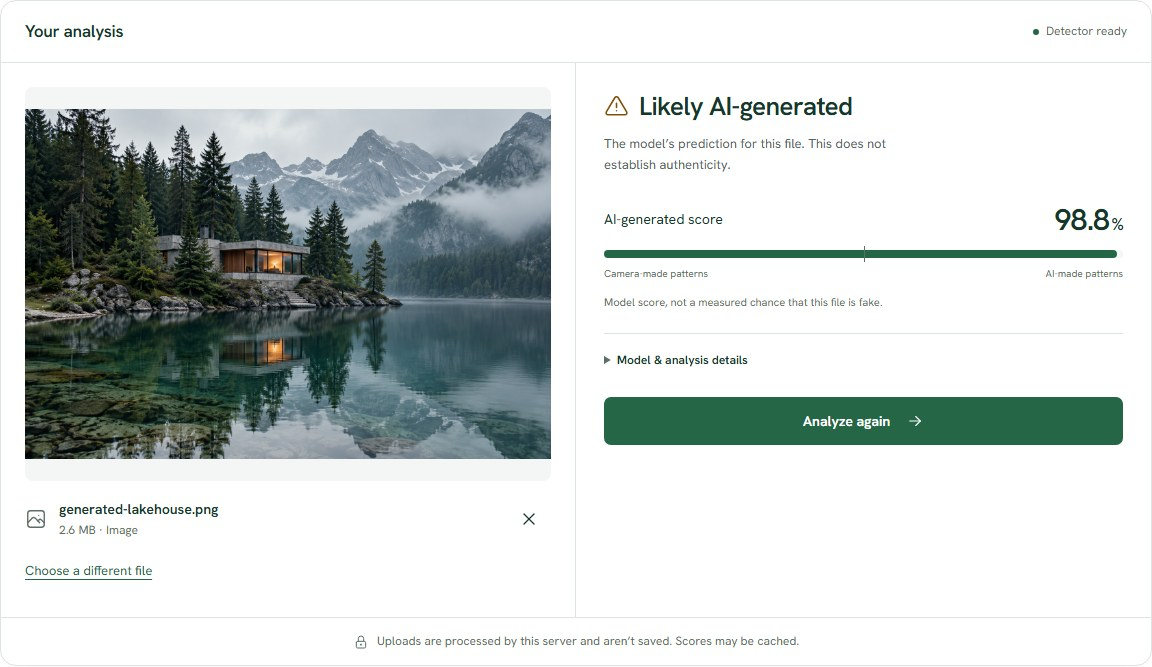
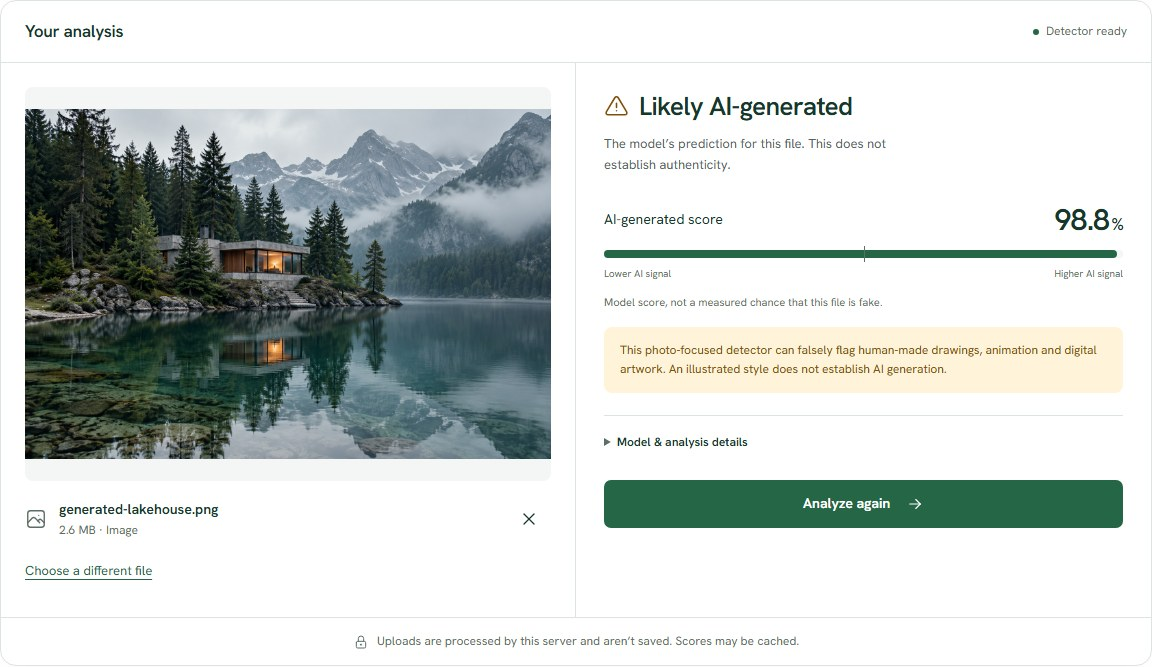
fix: distinguish human artwork from AI origin in result wording

diff --git a/frontend/src/components/VerdictCard.tsx b/frontend/src/components/VerdictCard.tsx
@@ -14,11 +14,7 @@ export function VerdictCard({ result }: { result: Verdict }) {
       <div className={"prediction " + (fake ? "generated" : "natural")}>
         {fake ? <IconAlertTriangle size={25} /> : <IconCircleCheck size={25} />}
         <h3 ref={heading} tabIndex={-1}>
-          {fake
-            ? "Likely AI-generated"
-            : result.modality === "audio"
-              ? "Likely human-made"
-              : "Likely camera-made"}
+          {fake ? "Likely AI-generated" : "Likely non-AI"}
         </h3>
       </div>
       <p className="result-context">
@@ -46,16 +42,19 @@ export function VerdictCard({ result }: { result: Verdict }) {
         <i style={{ left: result.decision_threshold * 100 + "%" }} />
       </div>
       <div className="score-scale">
-        <span>
-          {result.modality === "audio"
-            ? "Human-made patterns"
-            : "Camera-made patterns"}
-        </span>
-        <span>AI-made patterns</span>
+        <span>Lower AI signal</span>
+        <span>Higher AI signal</span>
       </div>
       <p className="score-note">
         Model score, not a measured chance that this file is fake.
       </p>
+      {result.model_info.id === "onnx-community/ai-image-detection-ONNX" && (
+        <p className="notice artwork-limit">
+          This photo-focused detector can falsely flag human-made drawings,
+          animation and digital artwork. An illustrated style does not establish
+          AI generation.
+        </p>
+      )}
       {result.frames && (
         <div className="frames">
           <div className="frames-heading">

diff --git a/frontend/src/components/DetectorGuide.tsx b/frontend/src/components/DetectorGuide.tsx
@@ -55,6 +55,16 @@ export function DetectorGuide() {
         </div>
         <div className="model-details">
           <details>
+            <summary>Does illustrated or anime mean AI-generated?</summary>
+            <p>
+              No. Human-made drawings, animation, paintings and digital artwork
+              belong in the non-AI class too. Style alone cannot establish AI
+              use. The default photo-focused detector can misclassify artwork;
+              check the original artist or publication rather than treating its
+              score as proof.
+            </p>
+          </details>
+          <details>
             <summary>How accurate is AI detection?</summary>
             <p>
               Results can be wrong. Real photographs can be flagged as AI, and

diff --git a/frontend/src/app/globals.css b/frontend/src/app/globals.css
@@ -504,6 +504,11 @@ h3 {
   color: var(--error);
   background: var(--error-bg);
 }
+.notice.artwork-limit {
+  display: block;
+  margin: 16px 0 0;
+  font-size: 12px;
+}
 .workbench {
   display: grid;
   grid-template-columns: 1fr 1fr;

diff --git a/README.md b/README.md
@@ -34,7 +34,7 @@ Prefer Python and Node directly? See [native setup and development](docs/develop
 
 ## Read the result carefully
 
-The percentage is a model class score, not proof or a calibrated probability of authenticity. The default CIFAKE-trained model can miss new generators and misclassify genuine photographs. In our demo, NASA’s real Earthrise photo incorrectly scored about **89.5% AI-generated**. Check the source even when a score is high.
+The percentage is a model class score, not proof or a calibrated probability of authenticity. The default CIFAKE-trained model can miss new generators and misclassify genuine photographs. In our demo, NASA’s real Earthrise photo incorrectly scored about **89.5% AI-generated**. Human-made anime, drawings and digital paintings are non-AI too; this photo-focused detector can falsely flag them. Check the source even when a score is high.
 
 Videos are assessed through sampled image frames, up to 32 at one frame per second by default. Audio and motion are not analyzed. Optional audio training and inference require your own audio model.
 
